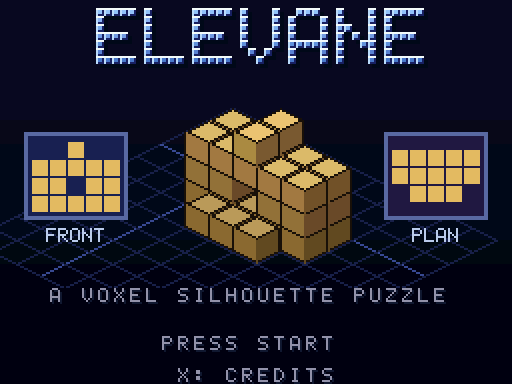
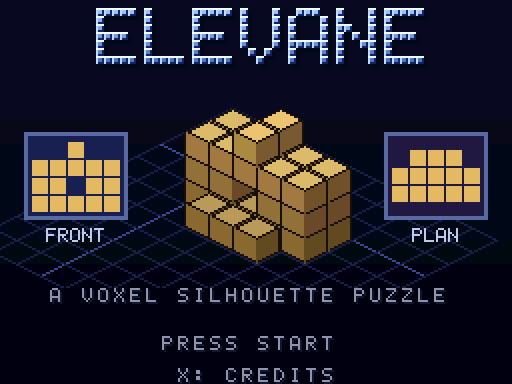
FIX: Elevane title plan inset follows the play scene's y-up grid and the song keeps only the samples it uses
The PLAN inset was drawn upside down against play.c and the 2D grid.
SAMPLES_USED drops kick, snare and hat, which workbench never plays.

diff --git a/games/elevane/tools/cvtools/evart.py b/games/elevane/tools/cvtools/evart.py
@@ -178,12 +178,12 @@ def title_art():
     for (x, y, z) in sorted(s.cells, key=lambda c: (c[0] + c[1] + c[2], c[2], c[0])):
         _cube(pix, CX + (x - y) * HW, BASEY + (x + y) * HH - (z + 1) * CH, z)
 
-    # The player's orders: front view (x across, z up) and plan view (x across, y down).
+    # The player's orders: front view (x across, z up) and plan view (x across, y up, like the play scene).
     order = model.Order.of(s)
     _inset(pix, 14, 68, 48, 40, FRONT_CLEAR, s.w, s.h,
            lambda c, r: order.front_has(c, s.h - 1 - r), 'FRONT')
     _inset(pix, 194, 68, 48, 40, PLAN_CLEAR, s.w, s.d,
-           lambda c, r: order.plan_has(c, r), 'PLAN')
+           lambda c, r: order.plan_has(c, s.d - 1 - r), 'PLAN')
 
     _wordmark(pix, 'ELEVANE', (W - 7 * 24) // 2 + 4, 4, 4)
 

diff --git a/games/elevane/tools/cvtools/audio.py b/games/elevane/tools/cvtools/audio.py
@@ -54,7 +54,7 @@ def env(i, n, attack=0.01, release=1.0):
     return a * (1 - t) ** release
 
 
-SAMPLES_USED = ('bass', 'pad', 'kick', 'snare', 'hat', 'chime', 'click')
+SAMPLES_USED = ('bass', 'pad', 'chime', 'click')
 
 
 def make_samples():
